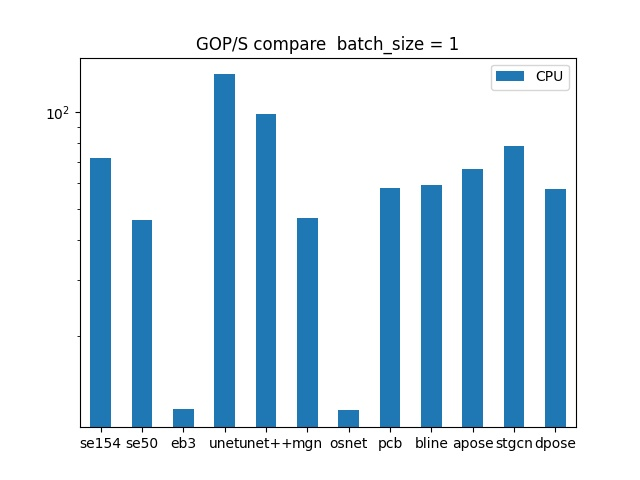
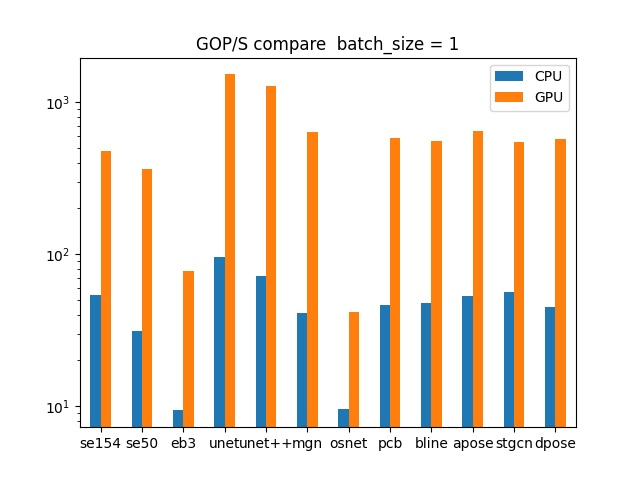
do all cpu/gpu gops/gopj test

diff --git a/benchmark_op.py b/benchmark_op.py
@@ -243,8 +243,8 @@ if __name__ == "__main__":
     model_list = ["senet154", "se_resnext50_32x4d", "efficientnet_b3", "unet", "unetpp",
             "mgn", "osnet", "pcb", "baseline", "alphapose", "st_gcn_net", "deeppose"]
     model_simple = ["se154", "se50", "eb3", "unet", "unet++", "mgn", "osnet", "pcb", "bline", "apose", "stgcn", "dpose"]
-    #hardware_info = {"CPU":45, "GPU":75}
-    hardware_info = {"CPU":15}
+    hardware_info = {"CPU":45, "GPU":75}
+    #hardware_info = {"CPU":15}
     dlh_bench = DLHBenchmark(warm_up, infer_epoch, batch_size_list,
                             model_list, model_simple, hardware_info)
     dlh_bench.bench_opsj()

diff --git a/pretrained_models/models/alphapose.py b/pretrained_models/models/alphapose.py
@@ -12,7 +12,7 @@ import os
 from thop import profile
 from ptflops import get_model_complexity_info
 
-PretrainedURL = r"C:\Users\10125\.cache\torch\hub\checkpoints\fast_res50_256x192.pth"
+PretrainedURL = r"C:\Users\asus\.cache\torch\hub\checkpoints\fast_res50_256x192.pth"
 __all__ = ["alphapose"]
 
 class DUC(nn.Module):
